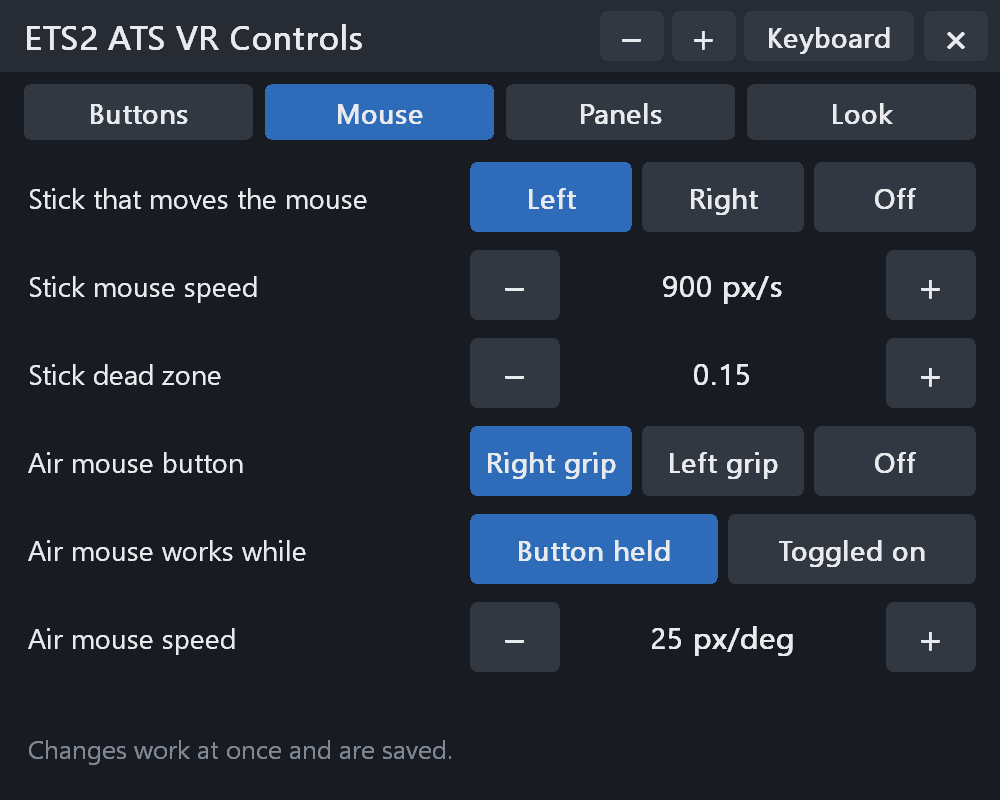
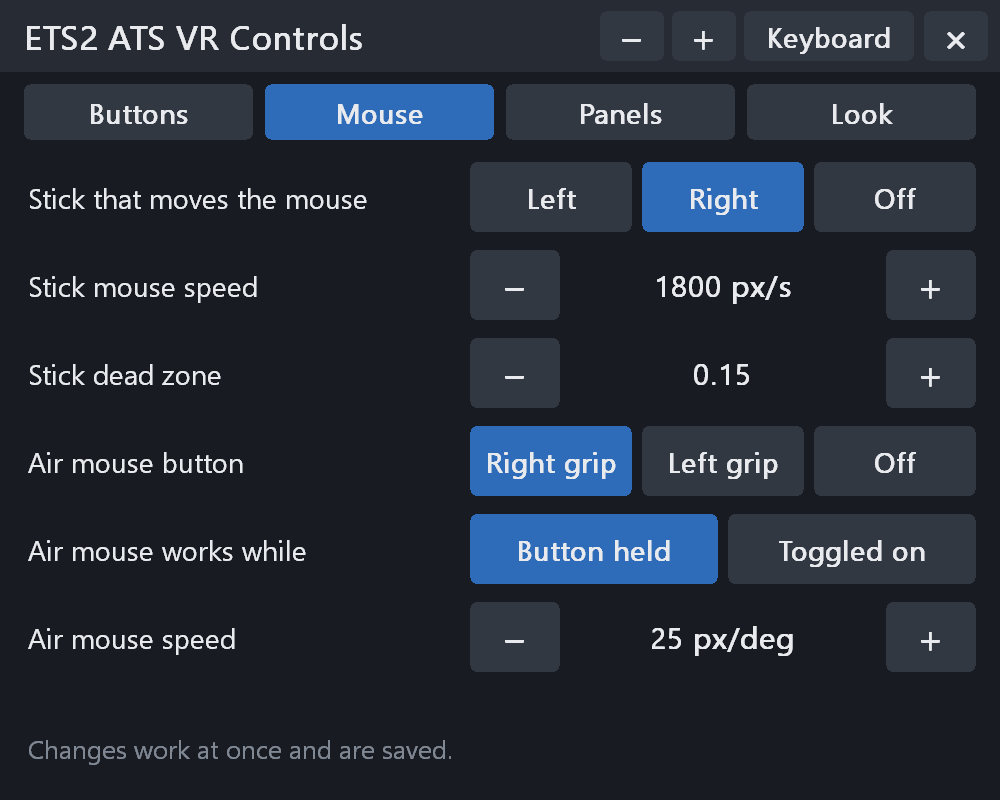
New default buttons (the user's mapping): one controller does the whole mouse
Right stick = mouse (1800 px/s), right grip = air mouse + modifier, A = left click, right trigger = right click, right grip +
B = right click (drag the map; B alone stays Esc), left trigger = wheel up. config.ini shipped values and the code defaults
match (config_test); the tests that were built on the old mapping pin it explicitly (pad_map_test OldDefaults, e2e
RunCase); new check of the defaults; README default table and screenshots.

Changed region(s): [[0.465, 0.1875, 0.806, 0.3125], [0.651, 0.3438, 0.806, 0.375]]

diff --git a/tests/pad_map_test.cpp b/tests/pad_map_test.cpp
@@ -32,6 +32,20 @@ static void QuatYawPitch(double yawDeg, double pitchDeg, double q[4]) {   // yaw
     q[3] = qy[3] * qx[3] - qy[0] * qx[0] - qy[1] * qx[1] - qy[2] * qx[2];
 }
 
+// the mapping these checks were written for (the defaults before 2026-10-23): trigger = left click, left trigger = right click,
+// A = Enter, left stick = mouse at 900 px/s, right grip + right trigger = right click
+static VrPad::Config OldDefaults() {
+    VrPad::Config c = VrPad::DefaultConfig();
+    VrPad::ParseOut("mouse_left", &c.map[VrPad::kRTrig]);
+    VrPad::ParseOut("mouse_right", &c.map[VrPad::kLTrig]);
+    VrPad::ParseOut("enter", &c.map[VrPad::kA]);
+    c.mouseStick = 1;
+    c.mouseSpeed = 900.0f;
+    c.modMap[VrPad::kB] = VrPad::Out();
+    VrPad::ParseOut("mouse_right", &c.modMap[VrPad::kRTrig]);
+    return c;
+}
+
 int main() {
     using namespace VrPad;
     printf("(1) names and parser\n");
@@ -58,7 +72,7 @@ int main() {
 
     printf("(2) mapper\n");
     {   // the modifier (default: right grip + right trigger = right click; the grip stays the air mouse)
-        Config c = DefaultConfig();
+        Config c = OldDefaults();
         ParseOut("f1", &c.modMap[kA]);
         Mapper m; Rec r; Frame f;
         f.hand[0] = f.hand[1] = true;
@@ -94,8 +108,29 @@ int main() {
         m.Step(f, true, 0.011, c, r);
         CHECK(r.Take() == "m0v m0^", "modifier off: the trigger is the left click");
     }
-    {   // edges, hysteresis, the hold button, combos
+    {   // the defaults since 2026-10-23: A = left click, B = Esc, right grip (air mouse, the modifier) + B = right click
         Config c = DefaultConfig();
+        Mapper m; Rec r; Frame f;
+        f.hand[0] = f.hand[1] = true;
+        f.prim[1] = true; m.Step(f, true, 0.011, c, r);
+        f.prim[1] = false; m.Step(f, true, 0.011, c, r);
+        CHECK(r.Take() == "m0v m0^", "A = left click");
+        f.sec[1] = true; m.Step(f, true, 0.011, c, r);
+        f.sec[1] = false; m.Step(f, true, 0.011, c, r);
+        CHECK(r.Take() == "k001v k001^", "B alone = Esc");
+        f.grip[1] = 1.0f; m.Step(f, true, 0.011, c, r);
+        f.sec[1] = true; m.Step(f, true, 0.011, c, r);
+        CHECK(r.Take() == "m1v", "right grip + B = right click down (drag the map)");
+        f.sec[1] = false; m.Step(f, true, 0.011, c, r);
+        f.prim[1] = true; m.Step(f, true, 0.011, c, r);
+        f.prim[1] = false; f.grip[1] = 0.0f; m.Step(f, true, 0.011, c, r);
+        CHECK(r.Take() == "m1^ m0v m0^", "... up; right grip + A = left click as normal");
+        f.trig[1] = 1.0f; m.Step(f, true, 0.011, c, r);
+        f.trig[1] = 0.0f; m.Step(f, true, 0.011, c, r);
+        CHECK(r.Take() == "m1v m1^", "right trigger = right click");
+    }
+    {   // edges, hysteresis, the hold button, combos
+        Config c = OldDefaults();
         ParseOut("shift+f", &c.map[kX]);
         ParseOut("delete", &c.map[kMenu]);
         Mapper m; Rec r; Frame f;
@@ -134,7 +169,7 @@ int main() {
         CHECK(r.Take().empty(), "released only once");
     }
     {   // stick directions vs the mouse stick
-        Config c = DefaultConfig();                    // left stick = mouse, right stick = arrows
+        Config c = OldDefaults();                    // left stick = mouse, right stick = arrows
         Mapper m; Rec r; Frame f;
         f.hand[0] = f.hand[1] = true;
         f.sx[1] = 0.9f;
@@ -169,7 +204,7 @@ int main() {
         CHECK(r.Take().empty() && r.mx == 0 && r.my == 0 && m.Down(kLUp), "mouse off: left up is a button (unmapped)");
     }
     {   // air mouse
-        Config c = DefaultConfig();
+        Config c = OldDefaults();
         Mapper m; Rec r; Frame f;
         f.hand[0] = f.hand[1] = true;
         f.aim[1] = true;

diff --git a/src/pad_map.h b/src/pad_map.h
@@ -145,8 +145,8 @@ inline void OutToString(const Out& o, char* buf, size_t cap) {
 
 struct Config {
     Out   map[kBtnCount];
-    int   mouseStick = 1;                              // 0 off, 1 left stick, 2 right stick moves the mouse
-    float mouseSpeed = 900.0f;                         // pixels / s at full stick
+    int   mouseStick = 2;                              // 0 off, 1 left stick, 2 right stick moves the mouse
+    float mouseSpeed = 1800.0f;                        // pixels / s at full stick
     float deadzone = 0.15f;                            // stick
     int   airBtn = kRGrip;                             // held = air mouse (the button's own mapping is not sent); -1 = off
     int   airHand = 1;                                 // the hand whose aim moves the mouse (follows airBtn's hand)
@@ -160,20 +160,22 @@ struct Config {
 };
 inline Config DefaultConfig() {
     Config c;
-    ParseOut("mouse_left", &c.map[kRTrig]);
-    ParseOut("mouse_right", &c.map[kLTrig]);
-    ParseOut("enter", &c.map[kA]);
+    // (the user's own mapping, made the default 2026-10-23: one controller does the mouse -- right stick or air mouse to point,
+    //  A = left click, right trigger = right click, right grip + B = right click as well, to drag the map with the grip held)
+    ParseOut("mouse_right", &c.map[kRTrig]);
+    ParseOut("wheel_up", &c.map[kLTrig]);
+    ParseOut("mouse_left", &c.map[kA]);
     ParseOut("esc", &c.map[kB]);
     ParseOut("[", &c.map[kX]);                         // ETS2 / ATS default: left indicator
     ParseOut("]", &c.map[kY]);                         // right indicator
     ParseOut("h", &c.map[kRStick]);                    // horn
     ParseOut("f", &c.map[kLStick]);                    // hazard lights
     // kMenu: none -- ETS2 / ATS use the menu button themselves (their only other controller input is the trigger)
-    ParseOut("up", &c.map[kRUp]);
+    ParseOut("up", &c.map[kRUp]);                      // (used when the right stick does not move the mouse: mouse_stick)
     ParseOut("down", &c.map[kRDown]);
     ParseOut("left", &c.map[kRLeft]);
     ParseOut("right", &c.map[kRRight]);
-    ParseOut("mouse_right", &c.modMap[kRTrig]);        // right grip (air mouse) + right trigger = right click: map dragging
+    ParseOut("mouse_right", &c.modMap[kB]);            // right grip (air mouse) + B = right click: drag the map
     return c;
 }
 inline int HandOfBtn(int b) {

diff --git a/tests/config_test.cpp b/tests/config_test.cpp
@@ -74,7 +74,9 @@ int main(int argc, char** argv) {
     // the modifier: shipped = the defaults (right grip; rtrigger:mouse_right), parsing, the menu's write read back
     CHECK(c.pad.modBtn == d.pad.modBtn && d.pad.modBtn == VrPad::kRGrip, "shipped modifier = rgrip");
     for (int b = 0; b < VrPad::kBtnCount; ++b) CHECK(SameOut(c.pad.modMap[b], d.pad.modMap[b]), "modifier key %s differs", VrPad::BtnNames()[b]);
-    CHECK(d.pad.modMap[VrPad::kRTrig].kind == VrPad::kMouseR, "default: modifier + right trigger = right click");
+    CHECK(d.pad.modMap[VrPad::kB].kind == VrPad::kMouseR && d.pad.map[VrPad::kA].kind == VrPad::kMouseL &&
+          d.pad.map[VrPad::kRTrig].kind == VrPad::kMouseR && d.pad.mouseStick == 2,
+          "defaults: A = left click, right trigger = right click, modifier + B = right click, right stick = mouse");
     const Config mo = ParseConfig("modifier = lgrip\nmodifier_keys = a:shift+f | ltrigger:mouse_right | x:,\n");
     CHECK(mo.pad.modBtn == VrPad::kLGrip && mo.pad.modMap[VrPad::kA].n == 2 && mo.pad.modMap[VrPad::kLTrig].kind == VrPad::kMouseR &&
           mo.pad.modMap[VrPad::kX].kind == VrPad::kKeys && mo.pad.modMap[VrPad::kRTrig].kind == VrPad::kNone && mo.notes.empty(),

diff --git a/README.md b/README.md
@@ -39,12 +39,12 @@ Only one OpenXR runtime is active at a time; the last one you set wins.
 ## What it does
 
 - Each controller button sends a key or a mouse button that you choose in `config.ini`.
-- One stick moves the mouse pointer (the left stick by default).
+- One stick moves the mouse pointer (the right stick by default).
 - **Air mouse**: hold the right grip and turn the controller. The pointer follows, like a laser pointer. (Or set it to
   toggle: one press on, the next press off.)
 - **Modifier**: while you hold the modifier button (right grip), buttons can send something else. Default: **right grip +
-  right trigger = right click** -- so one controller does everything: hold the grip (the pointer follows), pull the trigger
-  to right-click (drag the map). Set any button's modified key in the VR menu.
+  B = right click** -- so one controller does everything: hold the grip (the pointer follows), hold B to right-click (drag
+  the map); A is the left click. Set any button's modified key in the VR menu.
 - **VR menu + keyboard**: hold both grips + the left stick click for 1 second. A menu opens in front of you. See [The VR menu](#the-vr-menu).
 - The game's own VR controls (the trigger and the left menu button) still work.
 - It only works in the games named in `config.ini`. In every other VR program it does nothing.
@@ -55,21 +55,25 @@ works next to the ETS2 / ATS DLAA mod, VR EyeCapture, Virtual Desktop, OpenXR To
 
 ## Default buttons
 
+Made so that **one controller (the right one) does the whole mouse**: point with the right stick or the air mouse, A =
+left click, the right trigger or right grip + B = right click.
+
 | Controller | Sends | In ETS2 / ATS (default keys) |
 |---|---|---|
-| Right trigger | left mouse click | click |
-| Left trigger | right mouse click | |
-| Right grip (hold) | air mouse, and the **modifier** | |
-| Right grip + right trigger | right mouse click | drag the map with one controller |
-| A | Enter | |
+| Right stick | moves the mouse pointer | |
+| Right grip (hold) | air mouse (the pointer follows the controller), and the **modifier** | |
+| A | left mouse click | click |
+| Right trigger | right mouse click | |
+| Right grip + B | right mouse click | drag the map: hold the grip, aim, hold B |
 | B | Esc | menu / back |
+| Left trigger | mouse wheel up | zoom |
 | X | `[` | left indicator |
 | Y | `]` | right indicator |
 | Right stick click | H | horn |
 | Left stick click | F | hazard lights |
 | Both grips + left stick click, 1 second | opens / closes the VR menu | |
-| Right stick up / down / left / right | arrow keys | |
-| Left stick | moves the mouse pointer | |
+
+(The right stick's arrow keys -- up / down / left / right -- work when you set the mouse to the left stick: Mouse tab.)
 
 Change them in `config.ini`. If you changed the game's key bindings, change `config.ini` to match.
 
@@ -95,9 +99,9 @@ There are **two** pointers, and only one of them works on the menu and the keybo
 | | The game's mouse pointer | The VR pointer (white dot) |
 |---|---|---|
 | What it is | Windows' mouse arrow, inside the game's own screens | A white dot that this mod draws on its own panels |
-| How it moves | The left stick, or the **air mouse**: hold the **right grip** and turn the controller | Just **point** a controller at the menu or the keyboard. No button needed. |
+| How it moves | The right stick, or the **air mouse**: hold the **right grip** and turn the controller | Just **point** a controller at the menu or the keyboard. No button needed. |
 | Where it works | Only inside the game's picture (game menus, map, ...). It can **not** reach the VR menu or keyboard. | Only on the VR menu and the keyboard |
-| How it clicks | Right trigger = left mouse click | **Trigger** while the dot is on a key / button |
+| How it clicks | A = left click, right trigger (or right grip + B) = right click | **Trigger** while the dot is on a key / button |
 
 So for the menu and the keyboard: **do not use the air mouse** (do not hold the grip). Aim the controller at the panel like
 a laser pointer. A **white dot** appears where you point, and the key under it lights up. Then pull the trigger.
